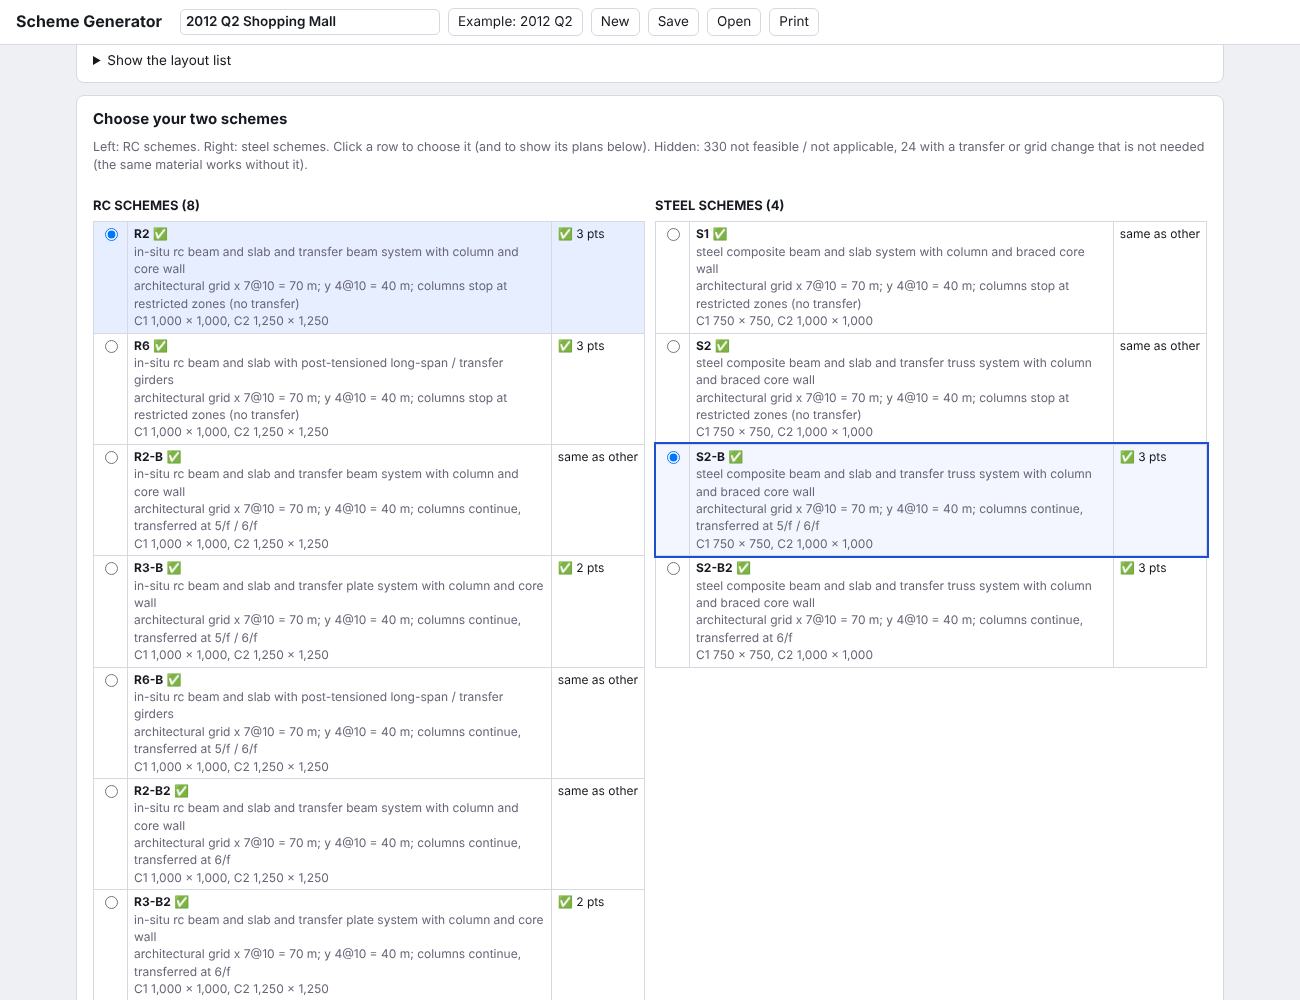
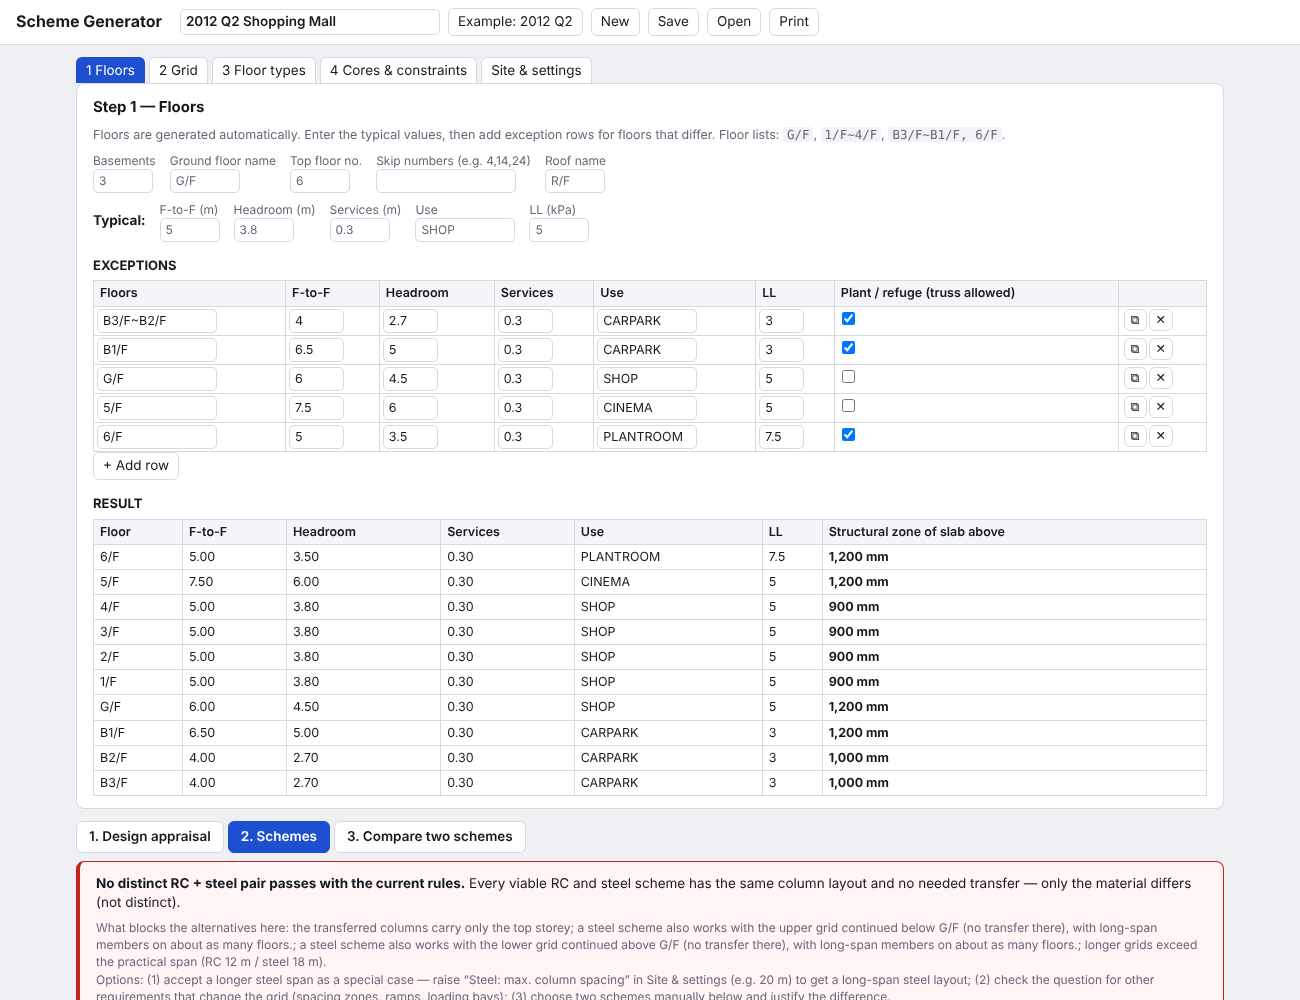
Scheme tool: columns inside a storey-deep truss/wall count as truss posts (long span, not transfer); transfers carrying only the top storey are not needed; clear message when no distinct pair exists
Claude-Session: https://claude.ai/code/session_013VHAzkVzNuS6tKq2iLBUj9

Changed region(s): [[0.0615, 0.031, 0.9231, 1.0], [0.8615, 0.217, 0.9231, 0.248]]

diff --git a/structural-scheme-tool/index.html b/structural-scheme-tool/index.html
@@ -865,6 +865,7 @@ function* evalGen(W){
     else { const C=compile(W,null,null,alt); if(!C.err.length){ const M=buildModel(C.S); if(!M.err.length){ ls=lsFloors(M); ok=SCHEMES.filter(s0=>s0.mat===mat).some(s0=>{ const R=assess(W,{...s0,lay:alt},C,M); return R.applicable&&R.worst!=='fail'; }); } } }
     const r={ok,ls}; cache.set(key,r); return r; };
   // floors that need long-span (non-transfer) members over restricted zones
+  function maxCarried(M){ let mx=0; M.tpoints.forEach(t=>{ if(!t.carries) return; const p=M.pmap.get(t.key); if(!p) return; let n=0; for(let s=t.k;s<=M.nL-2&&M.present(M.col[s][p.id]);s++) n++; mx=Math.max(mx,n); }); return mx; }
   function lsFloors(M){ return new Set(M.members.filter(m=>!m.carries).map(m=>m.k)).size; }
   const altsOf=lay=>{ const A=[]; const mk=arr=>arr.length===1?{sg:arr[0].g,tmode:'stop'}:{bands:arr,tmode:'stop'};
     if (lay.tmode==='keep') A.push({what:'the same grid without the transfer (columns stop at the restricted zones)',lay:{...lay,tmode:'stop',from:null}});
@@ -876,6 +877,8 @@ function* evalGen(W){
   let n2=0; const todo=lays.filter(l=>l.tmode==='keep'||l.bands);
   for (const lay of todo){ const alts=altsOf(lay);
     for (const mat of ['rc','st']){ const es=out.filter(e=>e.lay===lay&&e.sc.mat===mat&&feasibleE(e)); if(!es.length) continue;
+      // a transfer that only carries the top storey (e.g. one roof column) is not worth a transfer structure
+      const carried=maxCarried(es[0].M); if (carried<2){ es.forEach(e=>{ e.R.meaningless=`Not needed: the transferred columns carry only ${carried?'the top storey':'nothing'} — use a long-span roof / plant-floor member instead.`; }); continue; }
       // needed = the alternative fails, or the transfer / grid change saves long-span members on at least two floors
       const own=lsFloors(es[0].M); const hit=alts.find(a=>{ const r=viableAlt(a.lay,mat); return r.ok&&r.ls-own<2; });
       if (hit) es.forEach(e=>{ e.R.meaningless=`Not needed: a ${mat==='rc'?'RC':'steel'} scheme also works with ${hit.what}, with long-span members on about as many floors.`; });
@@ -896,10 +899,10 @@ function distinctBy(a,b){ const A=sigOf(a), B=sigOf(b), d=[]; if(layDiff(a.lay,b
 function weakDiff(a,b){ const A=sigOf(a), B=sigOf(b); return !distinctBy(a,b).length&&(A.tr!==B.tr||A.lay!==B.lay); }
 const feasibleE=e=>e.R.applicable&&e.R.worst!=='fail'&&!e.R.meaningless;
 // how different two schemes are, aspect by aspect (the answer pair should differ in as many as possible)
-function tLevels(e){ const s=new Set(); Object.values(e.R.ch).forEach(c=>{ if(c&&c.m&&c.m.carries&&c.tag) s.add(c.m.level); });
+function tLevels(e){ const s=new Set(); Object.values(e.R.ch).forEach(c=>{ if(c&&c.m&&c.m.carries&&!c.inTruss&&c.tag) s.add(c.m.level); });
   e.R.checks.forEach(c=>{ if(c.cat==='Transfer plate') s.add(c.where); if(c.cat==='Hanger + truss'){ const m=c.item.match(/TRUSS IN (\S+)/); if(m) s.add(m[1]); } if(c.cat==='Inclined column') s.add(c.where.split(' ')[0]); }); return s; }
 function tTypes(e){ const t=new Set(); ['PLATE','RPLATE','HANG','INCL'].forEach(u=>{ if(e.R.used.has(u)) t.add(u); });
-  Object.values(e.R.ch).forEach(c=>{ if(!c||!c.m||!c.m.carries) return; if(c.sys==='RC'||c.sys==='ST') t.add('GIRDER'); else if(['STRUSS','RCWALL','PT'].includes(c.sys)) t.add(c.sys); }); return t; }
+  Object.values(e.R.ch).forEach(c=>{ if(!c||!c.m||!c.m.carries||c.inTruss) return; if(c.sys==='RC'||c.sys==='ST') t.add('GIRDER'); else if(['STRUSS','RCWALL','PT'].includes(c.sys)) t.add(c.sys); }); return t; }
 const T_NAME={RPLATE:'inclined transfer plate (ramp)',PLATE:'transfer plate',STRUSS:'storey-deep truss',RCWALL:'storey-deep wall / deep beam',HANG:'hanger + roof truss',INCL:'inclined column',PT:'PT girder',GIRDER:'transfer girder'};
 function maxBay(e){ return Math.max(...e.M.grids.filter(g=>g.cols).flatMap(g=>[...g.gx.sp,...g.gy.sp])); }
 function aspects(a,b){
@@ -988,8 +991,10 @@ function assess(W,sc,C,M){
     const sig=sc.must&&opts.find(o=>o.sys===sc.must&&verdictOf(o.ratio,tol)!=='fail');
     const best=sig||opts.slice().sort((a,b)=>V_RANK[verdictOf(a.ratio,tol)]-V_RANK[verdictOf(b.ratio,tol)]||a.ratio-b.ratio)[0];
     const tag=`G${++gN}`;
-    const c=add({cat:m.carries?'Transfer':'Long span',where,item:`${tag}: ${best.txt}`,calc:`span ${f1(m.span)} m${m.cant?' (cantilever)':''}; zone ${f0(m.avail*1000)} mm${m.voidName?' (over '+m.voidName+')':''}; ${best.calc}`,need:best.need,have:best.have,ratio:best.ratio,fix:'Increase width / use C60 / compression steel / local deepening into plant floor'});
-    ch[m.id]={...best,tag,v:c.v,m,P,wTrib:10}; used.add(best.sys);
+    // a column that only exists inside the storey of a storey-deep truss / wall is the truss post, not a transferred column
+    const inTruss=m.carries&&(best.sys==='STRUSS'||best.sys==='RCWALL')&&best.where==='above'&&m.pts.every(pk=>{ const pp=M.pmap.get(pk); return pp&&!(m.k+1<=nL-2&&M.present(M.col[m.k+1][pp.id])); });
+    const c=add({cat:m.carries&&!inTruss?'Transfer':'Long span',where,item:`${tag}: ${best.txt}${inTruss?' (POSTS WITHIN THE TRUSS STOREY — LONG SPAN, NOT A TRANSFER)':''}`,calc:`span ${f1(m.span)} m${m.cant?' (cantilever)':''}; zone ${f0(m.avail*1000)} mm${m.voidName?' (over '+m.voidName+')':''}; ${best.calc}`,need:best.need,have:best.have,ratio:best.ratio,fix:'Increase width / use C60 / compression steel / local deepening into plant floor'});
+    ch[m.id]={...best,tag,v:c.v,m,P,wTrib:10,inTruss}; used.add(best.sys);
     if ((best.sys==='STRUSS'||best.sys==='RCWALL')&&best.where==='above') covered.add(`${m.k+1}|${geo}`);
   }
   Object.values(M.levelInfo).forEach(li=>{ if(li.unresolved&&li.unresolved.length&&!plateLv.has(li.k)) add({cat:'Transfer',where:L[li.k].name,item:`COLUMNS ${li.unresolved.slice(0,4).map(t=>t.label).join(', ')}${li.unresolved.length>4?' …':''} HAVE NO TRANSFER SUPPORT`,calc:`${li.unresolved.length} column(s) above sit on no lower column, wall or transfer beam line in either direction`,need:2,have:1,ratio:2,strict:true,fix:''}); });
@@ -1303,16 +1308,20 @@ function sectionSVG(E,cut){
   const cuts=[...new Set(ps.concat(ag.pos))].sort((a,b)=>a-b);
   for(let k=0;k<nL;k++){ for(let i=0;i<cuts.length-1;i++){ const a=cuts[i], b=cuts[i+1]; if(b-a<1e-6) continue; const [x,y]=at((a+b)/2); if(M.slabAt(k,x,y)) g+=`<line x1="${U(a)}" y1="${V(z[k])}" x2="${U(b)}" y2="${V(z[k])}" stroke="#222" stroke-width="${k===0?3:2}"/>`; } }
   // long-span / transfer members on this line
+  const trussPosts=new Set();
   M.members.forEach(m=>{ if(m.dir!==cut.dir||Math.abs((along?m.y1:m.x1)-c)>TOL) return; const ch=R.ch[m.id]; if(!ch||!ch.sys) return; const a=along?m.x1:m.y1, b=along?m.x2:m.y2;
     const col=ch.v==='fail'?'#d62828':ch.v==='marg'?'#e08a00':'#1a9e3f';
     if (ch.sys==='RCWALL'||ch.sys==='STRUSS'){ const top=ch.where==='above'?z[m.k+1]:z[m.k], bot=ch.where==='above'?z[m.k]:z[m.k-1]; g+=`<rect x="${U(a)}" y="${V(top)}" width="${(b-a)*S}" height="${(top-bot)*S}" fill="${ch.sys==='RCWALL'?'#cfe8d6':'none'}" stroke="${col}" stroke-width="1.5"/>`;
       if (ch.sys==='STRUSS'){ const n=Math.max(2,Math.round((b-a)/3)); for(let j=0;j<n;j++){ const xa=a+(b-a)*j/n, xb=a+(b-a)*(j+1)/n; g+=`<line x1="${U(xa)}" y1="${V(j%2?top:bot)}" x2="${U(xb)}" y2="${V(j%2?bot:top)}" stroke="${col}"/>`; } } }
     else { const D=ch.D||0.5; g+=`<rect x="${U(a)}" y="${V(z[m.k])}" width="${(b-a)*S}" height="${Math.max(2,D*S)}" fill="${col}" fill-opacity=".55" stroke="${col}"/>`; }
-    if (ch.tag) g+=`<text x="${U((a+b)/2)}" y="${V(z[m.k])+Math.max(10,(ch.D||0.5)*S+10)}" text-anchor="middle" font-size="9" font-weight="700" fill="${col}">${ch.tag}</text>`; });
+    const deep=ch.sys==='RCWALL'||ch.sys==='STRUSS', ty=deep?V((ch.where==='above'?(z[m.k]+z[m.k+1]):(z[m.k]+z[m.k-1]))/2)+4:V(z[m.k])+Math.max(10,(ch.D||0.5)*S+10);
+    if (ch.tag) g+=`<text x="${U(a+(b-a)*0.25)}" y="${ty}" text-anchor="middle" font-size="9.5" font-weight="700" fill="${col}" stroke="#fff" stroke-width="3" paint-order="stroke">${ch.tag}${ch.inTruss?' (LONG SPAN)':''}</text>`;
+    if (ch.inTruss) m.pts.forEach(pk=>{ const pp=M.pmap.get(pk); if(!pp) return; trussPosts.add(pp.id+'|'+m.k); }); });
   if (R.used.has('PLATE')) Object.values(M.levelInfo).forEach(li=>{ if(!li.carries||!li.plate) return; const t=R.checks.find(cc=>cc.cat==='Transfer plate'&&cc.where===L[li.k].name); if(!t) return; const xs=li.pts.map(p=>along?p.x:p.y); g+=`<rect x="${U(Math.min(...xs)-1)}" y="${V(z[li.k])}" width="${(Math.max(...xs)-Math.min(...xs)+2)*S}" height="${t.need*S}" fill="#1a9e3f" fill-opacity=".35" stroke="#1a9e3f"/>`; });
   // columns on the cut line, storey by storey (with offsets)
   M.pts.forEach(p=>{ if(Math.abs((along?p.y:p.x)-c)>TOL) return; const o=R.offsets[p.id]||{}; const u=(along?p.x+(o.dx||0):p.y+(o.dy||0));
     for(let s=0;s<nL-1;s++){ const st=M.col[s][p.id]; if(!M.present(st)||st==='core') continue; const w=Math.max(2,((R.colSize[p.id]||[])[s]||{side:0.5}).side*S);
+      if (trussPosts.has(p.id+'|'+s)){ g+=`<line x1="${U(u)}" y1="${V(z[s])}" x2="${U(u)}" y2="${V(z[s+1])}" stroke="#1a9e3f" stroke-width="1.5"/>`; continue; }
       g+=`<rect x="${U(u)-w/2}" y="${V(z[s+1])}" width="${w}" height="${(z[s+1]-z[s])*S}" fill="#fff" stroke="#111"/>`; } });
   // ground, levels, grid
   g+=`<line x1="${pad-30}" y1="${V(z0)}" x2="${Wd-pad+30}" y2="${V(z0)}" stroke="#7a5" stroke-width="1" stroke-dasharray="10 4"/><text x="${pad+4}" y="${V(z0)-3}" font-size="8.5" fill="#5a3">GROUND LEVEL</text>`;
@@ -1478,6 +1487,10 @@ function recHTML(L){
   const r=recPair(L); if(!r) return `<div class="card rec fail"><b>No viable scheme found.</b></div>`;
   if (!r.b) return `<div class="card rec marg"><b>Only ${r.a.sc.mat==='rc'?'RC':'steel'} schemes are viable</b> — no ${r.a.sc.mat==='rc'?'steel':'RC'} scheme passes.</div>`;
   const ok=r.d.length>0, as=r.as, sc=aScore(as), mx=aScore(as.map(x=>({...x,on:true})));
+  const anyPair=r.rc.some(a=>r.stl.some(b=>distinctBy(a,b).length));
+  if (!ok&&!anyPair) return `<div class="card rec fail"><b>No distinct RC + steel pair passes with the current rules.</b> Every viable RC and steel scheme has the same column layout and no needed transfer — only the material differs (not distinct).
+  <div class="note" style="margin-top:6px">What blocks the alternatives here: ${[...new Set(L.filter(e=>e.R.meaningless).map(e=>e.R.meaningless.split(':')[1].split('—')[0].trim()))].slice(0,3).map(esc).join('; ')||'—'}${L.some(e=>e.R.checks.some(c=>c.cat==='Grid span'&&c.v==='fail'))?`; longer grids exceed the practical span (RC ${W.set.spanRC} m / steel ${W.set.spanSt} m)`:''}.</div>
+  <div class="note">Options: (1) accept a longer steel span as a special case — raise “Steel: max. column spacing” in Site &amp; settings (e.g. 20 m) to get a long-span steel layout; (2) check the question for other requirements that change the grid (spacing zones, ramps, loading bays); (3) choose two schemes manually below and justify the difference.</div></div>`;
   return `<div class="card rec ${ok?'pass':'fail'}"><b>Answer: RC <a href="#" data-go="${r.a.sc.id}">${esc(r.a.sc.id)}</a> ${V_ICON[r.a.R.worst]} + STEEL <a href="#" data-go="${r.b.sc.id}">${esc(r.b.sc.id)}</a> ${V_ICON[r.b.R.worst]}</b> — ${ok?`✅ distinct, difference score ${sc} / ${mx}`:'❌ NOT distinct (same layout and transfer — pick another one in the lists below)'}.
   <table class="mini" style="margin:6px 0"><tr><th>Aspect</th><th>Different?</th><th>RC ${esc(r.a.sc.id)} | Steel ${esc(r.b.sc.id)}</th></tr>${as.map(x=>`<tr class="${x.on?'v-pass':''}"><td>${x.txt}</td><td>${x.on?'✅':'—'}</td><td>${esc(x.detail)}</td></tr>`).join('')}</table>
   <button data-cmp="${r.a.sc.id}|${r.b.sc.id}" class="noprint">Compare side by side</button><div class="note">Choose one RC and one steel scheme in the two lists below. HKIE: load path and framing plan must differ; RC vs steel with the same layout is NOT distinct.</div></div>`;

diff --git a/structural-scheme-tool/src/app.js b/structural-scheme-tool/src/app.js
@@ -342,6 +342,7 @@ function* evalGen(W){
     else { const C=compile(W,null,null,alt); if(!C.err.length){ const M=buildModel(C.S); if(!M.err.length){ ls=lsFloors(M); ok=SCHEMES.filter(s0=>s0.mat===mat).some(s0=>{ const R=assess(W,{...s0,lay:alt},C,M); return R.applicable&&R.worst!=='fail'; }); } } }
     const r={ok,ls}; cache.set(key,r); return r; };
   // floors that need long-span (non-transfer) members over restricted zones
+  function maxCarried(M){ let mx=0; M.tpoints.forEach(t=>{ if(!t.carries) return; const p=M.pmap.get(t.key); if(!p) return; let n=0; for(let s=t.k;s<=M.nL-2&&M.present(M.col[s][p.id]);s++) n++; mx=Math.max(mx,n); }); return mx; }
   function lsFloors(M){ return new Set(M.members.filter(m=>!m.carries).map(m=>m.k)).size; }
   const altsOf=lay=>{ const A=[]; const mk=arr=>arr.length===1?{sg:arr[0].g,tmode:'stop'}:{bands:arr,tmode:'stop'};
     if (lay.tmode==='keep') A.push({what:'the same grid without the transfer (columns stop at the restricted zones)',lay:{...lay,tmode:'stop',from:null}});
@@ -353,6 +354,8 @@ function* evalGen(W){
   let n2=0; const todo=lays.filter(l=>l.tmode==='keep'||l.bands);
   for (const lay of todo){ const alts=altsOf(lay);
     for (const mat of ['rc','st']){ const es=out.filter(e=>e.lay===lay&&e.sc.mat===mat&&feasibleE(e)); if(!es.length) continue;
+      // a transfer that only carries the top storey (e.g. one roof column) is not worth a transfer structure
+      const carried=maxCarried(es[0].M); if (carried<2){ es.forEach(e=>{ e.R.meaningless=`Not needed: the transferred columns carry only ${carried?'the top storey':'nothing'} — use a long-span roof / plant-floor member instead.`; }); continue; }
       // needed = the alternative fails, or the transfer / grid change saves long-span members on at least two floors
       const own=lsFloors(es[0].M); const hit=alts.find(a=>{ const r=viableAlt(a.lay,mat); return r.ok&&r.ls-own<2; });
       if (hit) es.forEach(e=>{ e.R.meaningless=`Not needed: a ${mat==='rc'?'RC':'steel'} scheme also works with ${hit.what}, with long-span members on about as many floors.`; });
@@ -373,10 +376,10 @@ function distinctBy(a,b){ const A=sigOf(a), B=sigOf(b), d=[]; if(layDiff(a.lay,b
 function weakDiff(a,b){ const A=sigOf(a), B=sigOf(b); return !distinctBy(a,b).length&&(A.tr!==B.tr||A.lay!==B.lay); }
 const feasibleE=e=>e.R.applicable&&e.R.worst!=='fail'&&!e.R.meaningless;
 // how different two schemes are, aspect by aspect (the answer pair should differ in as many as possible)
-function tLevels(e){ const s=new Set(); Object.values(e.R.ch).forEach(c=>{ if(c&&c.m&&c.m.carries&&c.tag) s.add(c.m.level); });
+function tLevels(e){ const s=new Set(); Object.values(e.R.ch).forEach(c=>{ if(c&&c.m&&c.m.carries&&!c.inTruss&&c.tag) s.add(c.m.level); });
   e.R.checks.forEach(c=>{ if(c.cat==='Transfer plate') s.add(c.where); if(c.cat==='Hanger + truss'){ const m=c.item.match(/TRUSS IN (\S+)/); if(m) s.add(m[1]); } if(c.cat==='Inclined column') s.add(c.where.split(' ')[0]); }); return s; }
 function tTypes(e){ const t=new Set(); ['PLATE','RPLATE','HANG','INCL'].forEach(u=>{ if(e.R.used.has(u)) t.add(u); });
-  Object.values(e.R.ch).forEach(c=>{ if(!c||!c.m||!c.m.carries) return; if(c.sys==='RC'||c.sys==='ST') t.add('GIRDER'); else if(['STRUSS','RCWALL','PT'].includes(c.sys)) t.add(c.sys); }); return t; }
+  Object.values(e.R.ch).forEach(c=>{ if(!c||!c.m||!c.m.carries||c.inTruss) return; if(c.sys==='RC'||c.sys==='ST') t.add('GIRDER'); else if(['STRUSS','RCWALL','PT'].includes(c.sys)) t.add(c.sys); }); return t; }
 const T_NAME={RPLATE:'inclined transfer plate (ramp)',PLATE:'transfer plate',STRUSS:'storey-deep truss',RCWALL:'storey-deep wall / deep beam',HANG:'hanger + roof truss',INCL:'inclined column',PT:'PT girder',GIRDER:'transfer girder'};
 function maxBay(e){ return Math.max(...e.M.grids.filter(g=>g.cols).flatMap(g=>[...g.gx.sp,...g.gy.sp])); }
 function aspects(a,b){
@@ -465,8 +468,10 @@ function assess(W,sc,C,M){
     const sig=sc.must&&opts.find(o=>o.sys===sc.must&&verdictOf(o.ratio,tol)!=='fail');
     const best=sig||opts.slice().sort((a,b)=>V_RANK[verdictOf(a.ratio,tol)]-V_RANK[verdictOf(b.ratio,tol)]||a.ratio-b.ratio)[0];
     const tag=`G${++gN}`;
-    const c=add({cat:m.carries?'Transfer':'Long span',where,item:`${tag}: ${best.txt}`,calc:`span ${f1(m.span)} m${m.cant?' (cantilever)':''}; zone ${f0(m.avail*1000)} mm${m.voidName?' (over '+m.voidName+')':''}; ${best.calc}`,need:best.need,have:best.have,ratio:best.ratio,fix:'Increase width / use C60 / compression steel / local deepening into plant floor'});
-    ch[m.id]={...best,tag,v:c.v,m,P,wTrib:10}; used.add(best.sys);
+    // a column that only exists inside the storey of a storey-deep truss / wall is the truss post, not a transferred column
+    const inTruss=m.carries&&(best.sys==='STRUSS'||best.sys==='RCWALL')&&best.where==='above'&&m.pts.every(pk=>{ const pp=M.pmap.get(pk); return pp&&!(m.k+1<=nL-2&&M.present(M.col[m.k+1][pp.id])); });
+    const c=add({cat:m.carries&&!inTruss?'Transfer':'Long span',where,item:`${tag}: ${best.txt}${inTruss?' (POSTS WITHIN THE TRUSS STOREY — LONG SPAN, NOT A TRANSFER)':''}`,calc:`span ${f1(m.span)} m${m.cant?' (cantilever)':''}; zone ${f0(m.avail*1000)} mm${m.voidName?' (over '+m.voidName+')':''}; ${best.calc}`,need:best.need,have:best.have,ratio:best.ratio,fix:'Increase width / use C60 / compression steel / local deepening into plant floor'});
+    ch[m.id]={...best,tag,v:c.v,m,P,wTrib:10,inTruss}; used.add(best.sys);
     if ((best.sys==='STRUSS'||best.sys==='RCWALL')&&best.where==='above') covered.add(`${m.k+1}|${geo}`);
   }
   Object.values(M.levelInfo).forEach(li=>{ if(li.unresolved&&li.unresolved.length&&!plateLv.has(li.k)) add({cat:'Transfer',where:L[li.k].name,item:`COLUMNS ${li.unresolved.slice(0,4).map(t=>t.label).join(', ')}${li.unresolved.length>4?' …':''} HAVE NO TRANSFER SUPPORT`,calc:`${li.unresolved.length} column(s) above sit on no lower column, wall or transfer beam line in either direction`,need:2,have:1,ratio:2,strict:true,fix:''}); });
@@ -780,16 +785,20 @@ function sectionSVG(E,cut){
   const cuts=[...new Set(ps.concat(ag.pos))].sort((a,b)=>a-b);
   for(let k=0;k<nL;k++){ for(let i=0;i<cuts.length-1;i++){ const a=cuts[i], b=cuts[i+1]; if(b-a<1e-6) continue; const [x,y]=at((a+b)/2); if(M.slabAt(k,x,y)) g+=`<line x1="${U(a)}" y1="${V(z[k])}" x2="${U(b)}" y2="${V(z[k])}" stroke="#222" stroke-width="${k===0?3:2}"/>`; } }
   // long-span / transfer members on this line
+  const trussPosts=new Set();
   M.members.forEach(m=>{ if(m.dir!==cut.dir||Math.abs((along?m.y1:m.x1)-c)>TOL) return; const ch=R.ch[m.id]; if(!ch||!ch.sys) return; const a=along?m.x1:m.y1, b=along?m.x2:m.y2;
     const col=ch.v==='fail'?'#d62828':ch.v==='marg'?'#e08a00':'#1a9e3f';
     if (ch.sys==='RCWALL'||ch.sys==='STRUSS'){ const top=ch.where==='above'?z[m.k+1]:z[m.k], bot=ch.where==='above'?z[m.k]:z[m.k-1]; g+=`<rect x="${U(a)}" y="${V(top)}" width="${(b-a)*S}" height="${(top-bot)*S}" fill="${ch.sys==='RCWALL'?'#cfe8d6':'none'}" stroke="${col}" stroke-width="1.5"/>`;
       if (ch.sys==='STRUSS'){ const n=Math.max(2,Math.round((b-a)/3)); for(let j=0;j<n;j++){ const xa=a+(b-a)*j/n, xb=a+(b-a)*(j+1)/n; g+=`<line x1="${U(xa)}" y1="${V(j%2?top:bot)}" x2="${U(xb)}" y2="${V(j%2?bot:top)}" stroke="${col}"/>`; } } }
     else { const D=ch.D||0.5; g+=`<rect x="${U(a)}" y="${V(z[m.k])}" width="${(b-a)*S}" height="${Math.max(2,D*S)}" fill="${col}" fill-opacity=".55" stroke="${col}"/>`; }
-    if (ch.tag) g+=`<text x="${U((a+b)/2)}" y="${V(z[m.k])+Math.max(10,(ch.D||0.5)*S+10)}" text-anchor="middle" font-size="9" font-weight="700" fill="${col}">${ch.tag}</text>`; });
+    const deep=ch.sys==='RCWALL'||ch.sys==='STRUSS', ty=deep?V((ch.where==='above'?(z[m.k]+z[m.k+1]):(z[m.k]+z[m.k-1]))/2)+4:V(z[m.k])+Math.max(10,(ch.D||0.5)*S+10);
+    if (ch.tag) g+=`<text x="${U(a+(b-a)*0.25)}" y="${ty}" text-anchor="middle" font-size="9.5" font-weight="700" fill="${col}" stroke="#fff" stroke-width="3" paint-order="stroke">${ch.tag}${ch.inTruss?' (LONG SPAN)':''}</text>`;
+    if (ch.inTruss) m.pts.forEach(pk=>{ const pp=M.pmap.get(pk); if(!pp) return; trussPosts.add(pp.id+'|'+m.k); }); });
   if (R.used.has('PLATE')) Object.values(M.levelInfo).forEach(li=>{ if(!li.carries||!li.plate) return; const t=R.checks.find(cc=>cc.cat==='Transfer plate'&&cc.where===L[li.k].name); if(!t) return; const xs=li.pts.map(p=>along?p.x:p.y); g+=`<rect x="${U(Math.min(...xs)-1)}" y="${V(z[li.k])}" width="${(Math.max(...xs)-Math.min(...xs)+2)*S}" height="${t.need*S}" fill="#1a9e3f" fill-opacity=".35" stroke="#1a9e3f"/>`; });
   // columns on the cut line, storey by storey (with offsets)
   M.pts.forEach(p=>{ if(Math.abs((along?p.y:p.x)-c)>TOL) return; const o=R.offsets[p.id]||{}; const u=(along?p.x+(o.dx||0):p.y+(o.dy||0));
     for(let s=0;s<nL-1;s++){ const st=M.col[s][p.id]; if(!M.present(st)||st==='core') continue; const w=Math.max(2,((R.colSize[p.id]||[])[s]||{side:0.5}).side*S);
+      if (trussPosts.has(p.id+'|'+s)){ g+=`<line x1="${U(u)}" y1="${V(z[s])}" x2="${U(u)}" y2="${V(z[s+1])}" stroke="#1a9e3f" stroke-width="1.5"/>`; continue; }
       g+=`<rect x="${U(u)-w/2}" y="${V(z[s+1])}" width="${w}" height="${(z[s+1]-z[s])*S}" fill="#fff" stroke="#111"/>`; } });
   // ground, levels, grid
   g+=`<line x1="${pad-30}" y1="${V(z0)}" x2="${Wd-pad+30}" y2="${V(z0)}" stroke="#7a5" stroke-width="1" stroke-dasharray="10 4"/><text x="${pad+4}" y="${V(z0)-3}" font-size="8.5" fill="#5a3">GROUND LEVEL</text>`;
@@ -955,6 +964,10 @@ function recHTML(L){
   const r=recPair(L); if(!r) return `<div class="card rec fail"><b>No viable scheme found.</b></div>`;
   if (!r.b) return `<div class="card rec marg"><b>Only ${r.a.sc.mat==='rc'?'RC':'steel'} schemes are viable</b> — no ${r.a.sc.mat==='rc'?'steel':'RC'} scheme passes.</div>`;
   const ok=r.d.length>0, as=r.as, sc=aScore(as), mx=aScore(as.map(x=>({...x,on:true})));
+  const anyPair=r.rc.some(a=>r.stl.some(b=>distinctBy(a,b).length));
+  if (!ok&&!anyPair) return `<div class="card rec fail"><b>No distinct RC + steel pair passes with the current rules.</b> Every viable RC and steel scheme has the same column layout and no needed transfer — only the material differs (not distinct).
+  <div class="note" style="margin-top:6px">What blocks the alternatives here: ${[...new Set(L.filter(e=>e.R.meaningless).map(e=>e.R.meaningless.split(':')[1].split('—')[0].trim()))].slice(0,3).map(esc).join('; ')||'—'}${L.some(e=>e.R.checks.some(c=>c.cat==='Grid span'&&c.v==='fail'))?`; longer grids exceed the practical span (RC ${W.set.spanRC} m / steel ${W.set.spanSt} m)`:''}.</div>
+  <div class="note">Options: (1) accept a longer steel span as a special case — raise “Steel: max. column spacing” in Site &amp; settings (e.g. 20 m) to get a long-span steel layout; (2) check the question for other requirements that change the grid (spacing zones, ramps, loading bays); (3) choose two schemes manually below and justify the difference.</div></div>`;
   return `<div class="card rec ${ok?'pass':'fail'}"><b>Answer: RC <a href="#" data-go="${r.a.sc.id}">${esc(r.a.sc.id)}</a> ${V_ICON[r.a.R.worst]} + STEEL <a href="#" data-go="${r.b.sc.id}">${esc(r.b.sc.id)}</a> ${V_ICON[r.b.R.worst]}</b> — ${ok?`✅ distinct, difference score ${sc} / ${mx}`:'❌ NOT distinct (same layout and transfer — pick another one in the lists below)'}.
   <table class="mini" style="margin:6px 0"><tr><th>Aspect</th><th>Different?</th><th>RC ${esc(r.a.sc.id)} | Steel ${esc(r.b.sc.id)}</th></tr>${as.map(x=>`<tr class="${x.on?'v-pass':''}"><td>${x.txt}</td><td>${x.on?'✅':'—'}</td><td>${esc(x.detail)}</td></tr>`).join('')}</table>
   <button data-cmp="${r.a.sc.id}|${r.b.sc.id}" class="noprint">Compare side by side</button><div class="note">Choose one RC and one steel scheme in the two lists below. HKIE: load path and framing plan must differ; RC vs steel with the same layout is NOT distinct.</div></div>`;
